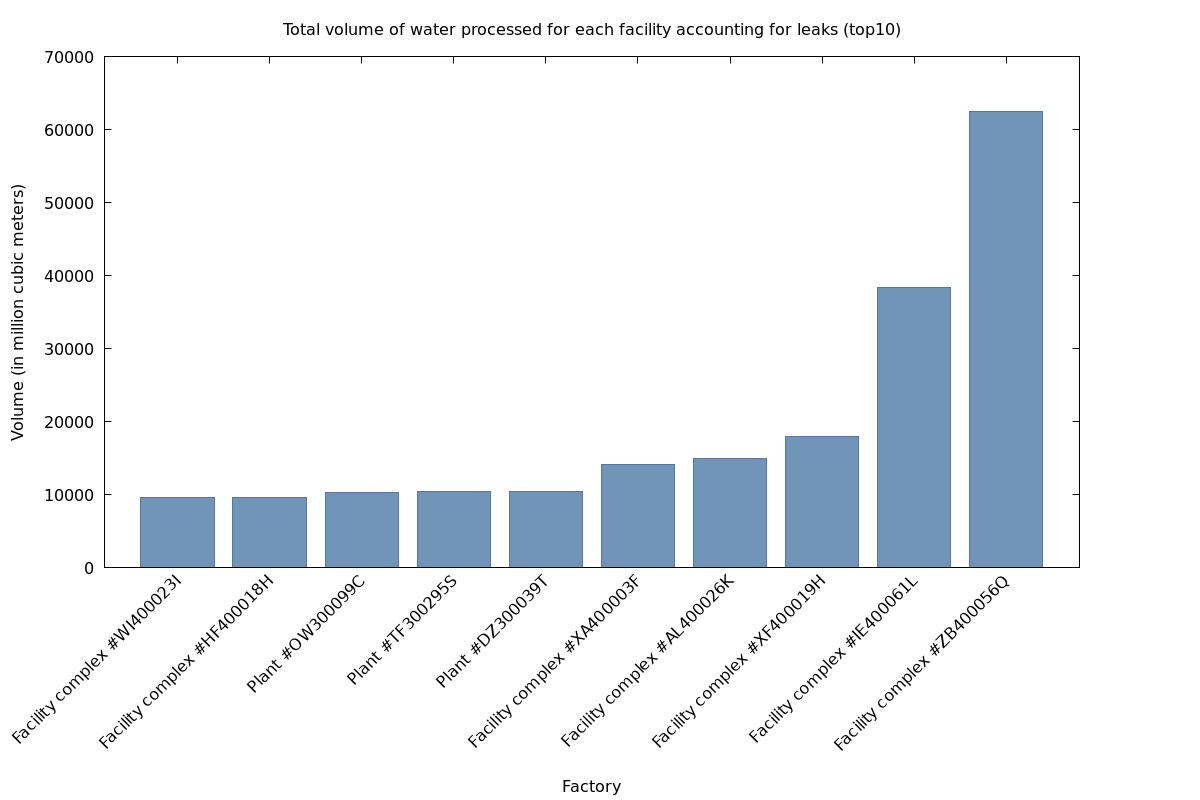
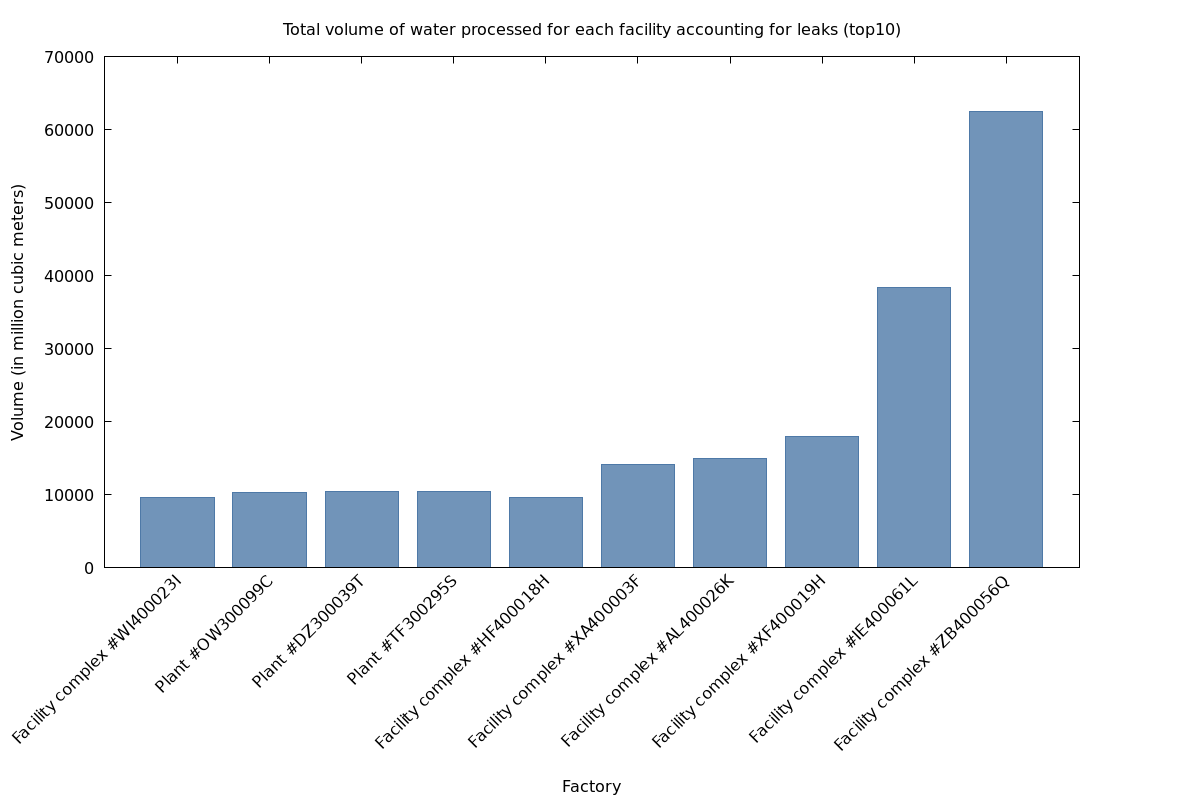
Removed qsort and arrays from histo.c made histo.c follow the specifications, fixed makefile and compilation without gcc in script.sh

diff --git a/CODE/histo/histo.c b/CODE/histo/histo.c
@@ -3,22 +3,17 @@
 #include "../utility/utility.h"
 #include "./histo.h"
 
-int compareMax(const void *a, const void *b) {
-    const Instance *ua = *(const Instance **)a;
-    const Instance *ub = *(const Instance **)b;
-    return ua->max - ub->max;
-}
+void AVLToCSV(FILE* file, Node* root) {
+  if (root == NULL) return;
 
-int compareSrc(const void *a, const void *b) {
-    const Instance *ua = *(const Instance **)a;
-    const Instance *ub = *(const Instance **)b;
-    return ua->volume - ub->volume;
-}
+  AVLToCSV(file, root->right);
 
-int compareReal(const void *a, const void *b) {
-    const Instance *ua = *(const Instance **)a;
-    const Instance *ub = *(const Instance **)b;
-    return (ua->leaks > ub->leaks) - (ua->leaks < ub->leaks);
+  if (root->address != NULL) {
+    if (root->address->leaks > root->address->max) root->address->leaks = root->address->max; //we put this check here to optimize having to traverse the whole AVL
+    if (file != NULL) fprintf(file, "%s,%d,%d,%.6f\n", root->address->id, root->address->max, root->address->volume, root->address->leaks);
+  }
+
+  AVLToCSV(file, root->left);
 }
 
 int main(int argc, char const *argv[]) {
@@ -30,10 +25,8 @@ int main(int argc, char const *argv[]) {
     char* facilitySrc = strtok( input, ";" );
     char* id = strtok( NULL, ";" );
     char* downstream = strtok( NULL, ";" );
-    char* tmp = strtok( NULL, ";" ); //temporary variable to check for NULL
-    int max = tmp ? atoi(tmp) : 0;
-    tmp = strtok( NULL, ";" ); //temporary variable to check for NULL
-    double leaks = tmp ? atof(tmp) : 0.0;
+    int max = atoi(strtok( NULL, ";" ) ?: "0"); //check for NULL
+    double leaks = atof(strtok( NULL, ";" ) ?: "0"); //check for NULL
 
     if (!facilitySrc || !id || !downstream) continue;
     
@@ -71,56 +64,16 @@ int main(int argc, char const *argv[]) {
     }
   }
 
-  int index = 0;
-  Instance** facilities = malloc(n * sizeof(Instance*));
-  if (!facilities) exit(88);
-  AVLToList(root, facilities, &index);
-  for (int i = 0; i < n; i++) {
-    if (facilities[i]->leaks > facilities[i]->max) facilities[i]->leaks = facilities[i]->max;
-  }
-  
-  if (argc < 2) {
-    deleteAllChilds(&root);
-    printf("No command was passed to: histo.c (only %d/2 arguments were read).\n", argc);
-    exit(122);
-  }
-  
-  if (strcmp(argv[1], "max") == 0) {
-    qsort(facilities, n, sizeof(Instance*), compareMax);
-  } else if (strcmp(argv[1], "src") == 0) {
-    qsort(facilities, n, sizeof(Instance*), compareSrc);
-  } else if (strcmp(argv[1], "real") == 0) {
-    qsort(facilities, n, sizeof(Instance*), compareReal);
-  }
-
-  // bottom 50
-  FILE *csv1 = fopen("./DATA/bottom50.csv", "w");
-  if (!csv1) {
-    printf("Failed to open bottom50.csv.\n");
+  FILE* file = fopen("./DATA/all.csv", "w");
+  if (!file) {
+    printf("Failed to open %s.\n", "./DATA/all.csv");
     exit(54);
   }
-  
-  fprintf(csv1, "id,max,src,real\n");
-  for (int i = 0; i < 50 && i < n; i++) {
-    fprintf(csv1, "%s,%d,%d,%.6f\n", facilities[i]->id, facilities[i]->max, facilities[i]->volume, facilities[i]->leaks);
-  }
-  fclose(csv1);
-
-  // top 10
-  FILE *csv2 = fopen("./DATA/top10.csv", "w");
-  if (!csv2) {
-    printf("Failed to open top10.csv.\n");
-    exit(54);
-  }
-  fprintf(csv2, "id,max,src,real\n");
-  for (int i = max2(n - 10, 0); i < n; i++) {
-    fprintf(csv2, "%s,%d,%d,%.6f\n", facilities[i]->id, facilities[i]->max, facilities[i]->volume, facilities[i]->leaks);
-  }
-  fclose(csv2);
+  fprintf(file, "id,max,src,real\n");
+  AVLToCSV(file, root);
+  fclose(file);
 
   deleteAllChilds(&root);
-  
-  free(facilities);
 
   return 0;
 }

diff --git a/CODE/histo/histo.h b/CODE/histo/histo.h
@@ -1,6 +1,4 @@
 #include "../main.h"
-int compareMax(const void *a, const void *b);
-int compareSrc(const void *a, const void *b);
-int compareReal(const void *a, const void *b);
+void AVLToCSV(FILE* file, Node* root);
 
 int main(int argc, char const *argv[]);
